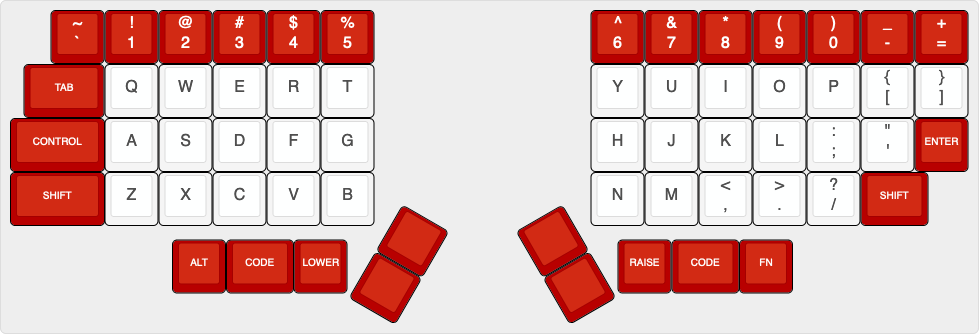
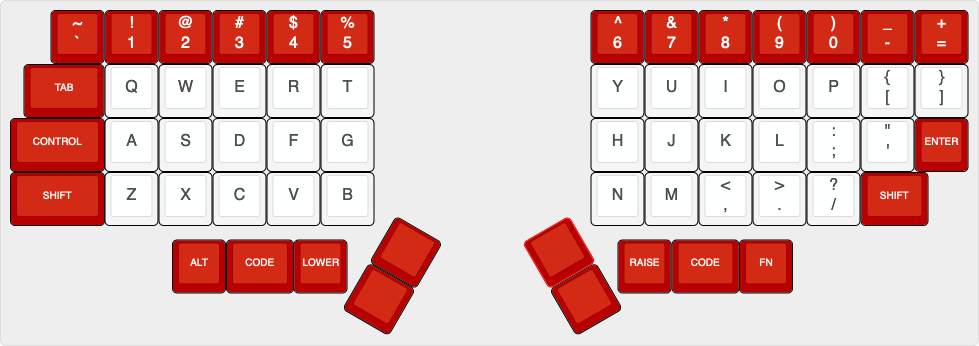
more accurate layout

diff --git a/README.md b/README.md
@@ -16,9 +16,9 @@ This is the corresponding data for pasting into Keyboard Layout Editor:
 [{c:"#b80000",t:"#f5f5f5",a:7,f:2,w:1.75},"CONTROL",{c:"#f5f5f5",t:"#424242",f:5},"A","S","D","F","G",{x:4},"H","J","K","L",{a:5},":\n;","\"\n'",{c:"#b80000",t:"#f5f5f5",a:7,f:2},"ENTER"],
 [{w:1.75},"SHIFT",{c:"#f5f5f5",t:"#424242",f:5},"Z","X","C","V","B",{x:4},"N","M",{a:5},"<\n,",">\n.","?\n/",{c:"#b80000",t:"#f5f5f5",a:7,f:2,w:1.25},"SHIFT"],
 [{y:0.25,x:3},"ALT",{w:1.25},"CODE","LOWER",{x:5},"RAISE",{w:1.25},"CODE","FN"],
-[{r:30,rx:6.75,ry:3,y:0.25,x:0.75,f:5},""],
+[{r:30,rx:6.75,ry:3,y:0.5,x:0.75,f:5},""],
 [{x:0.75,f:2},""],
-[{r:-30,rx:10.75,y:0.25,x:-1.75,f:5},""],
+[{r:-30,rx:10.75,y:0.5,x:-1.75,f:5},""],
 [{x:-1.75,f:2},""]
 ```
 
